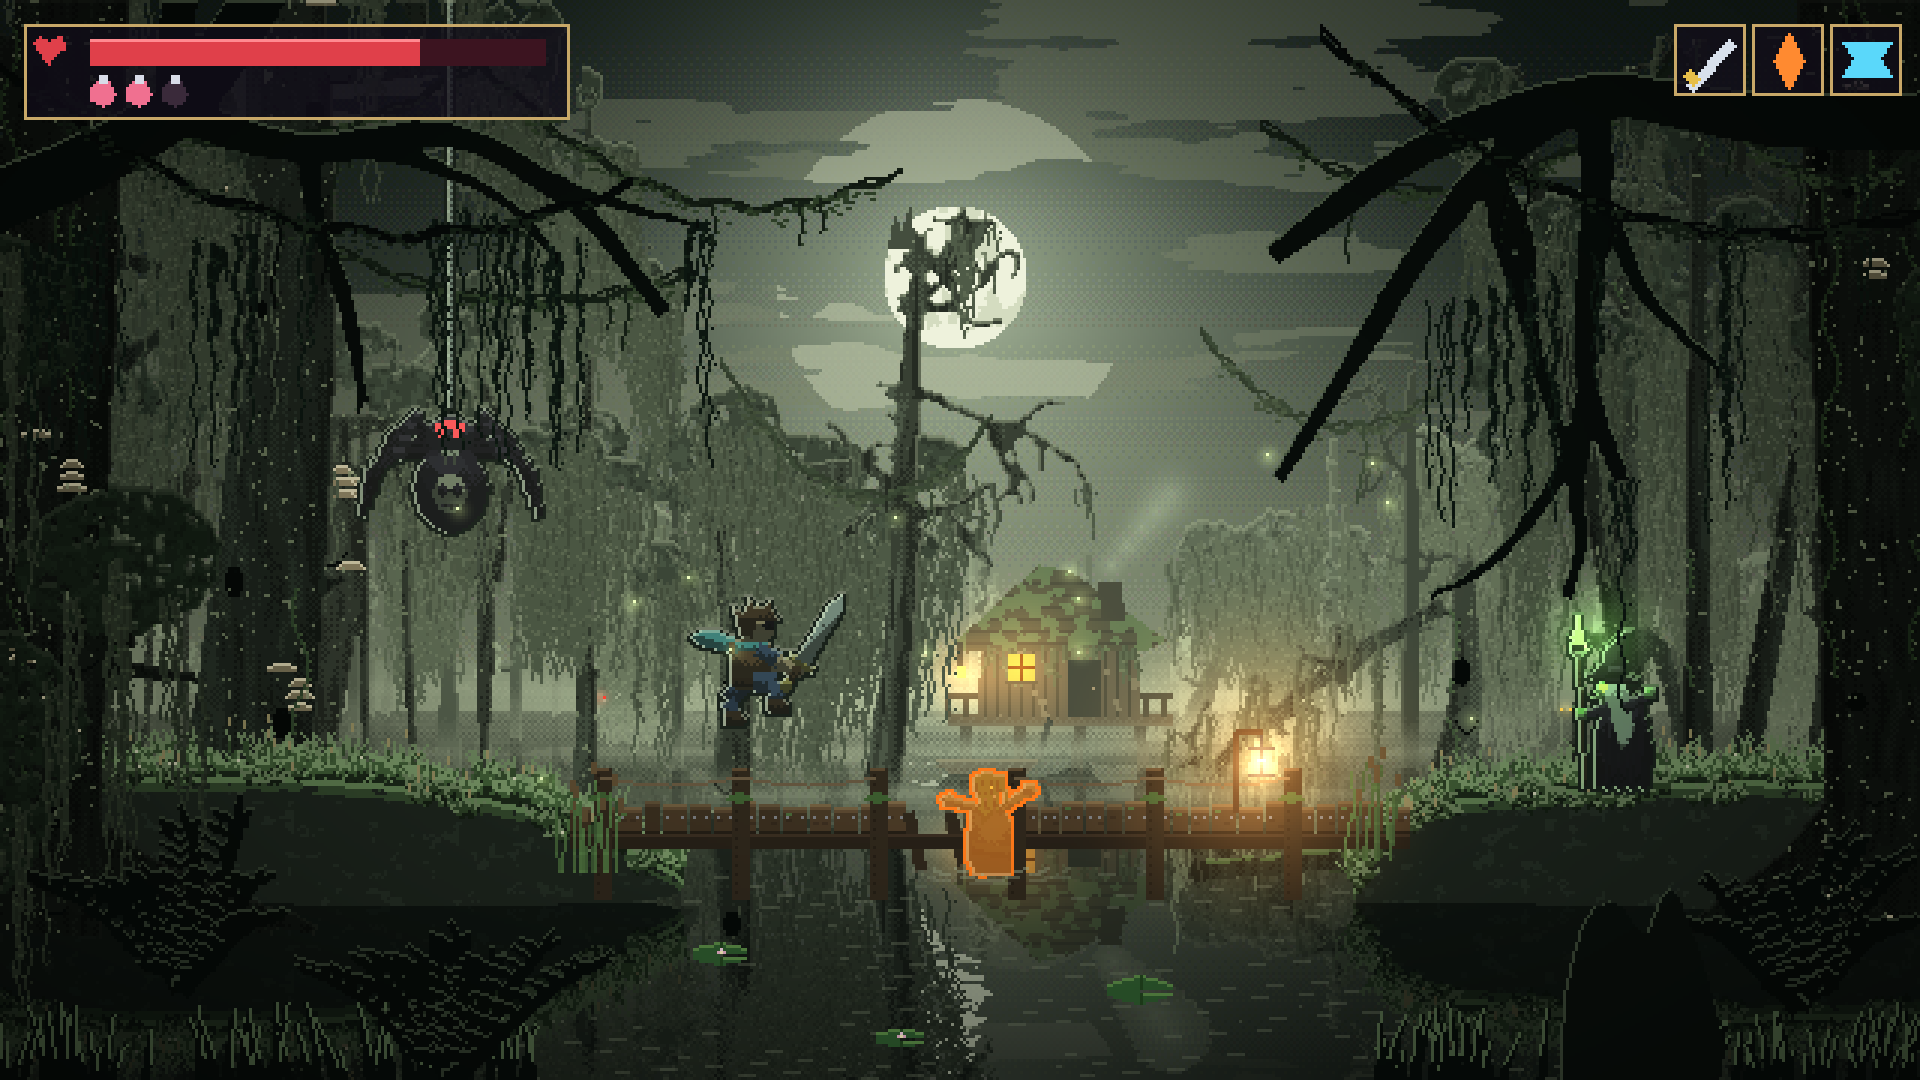
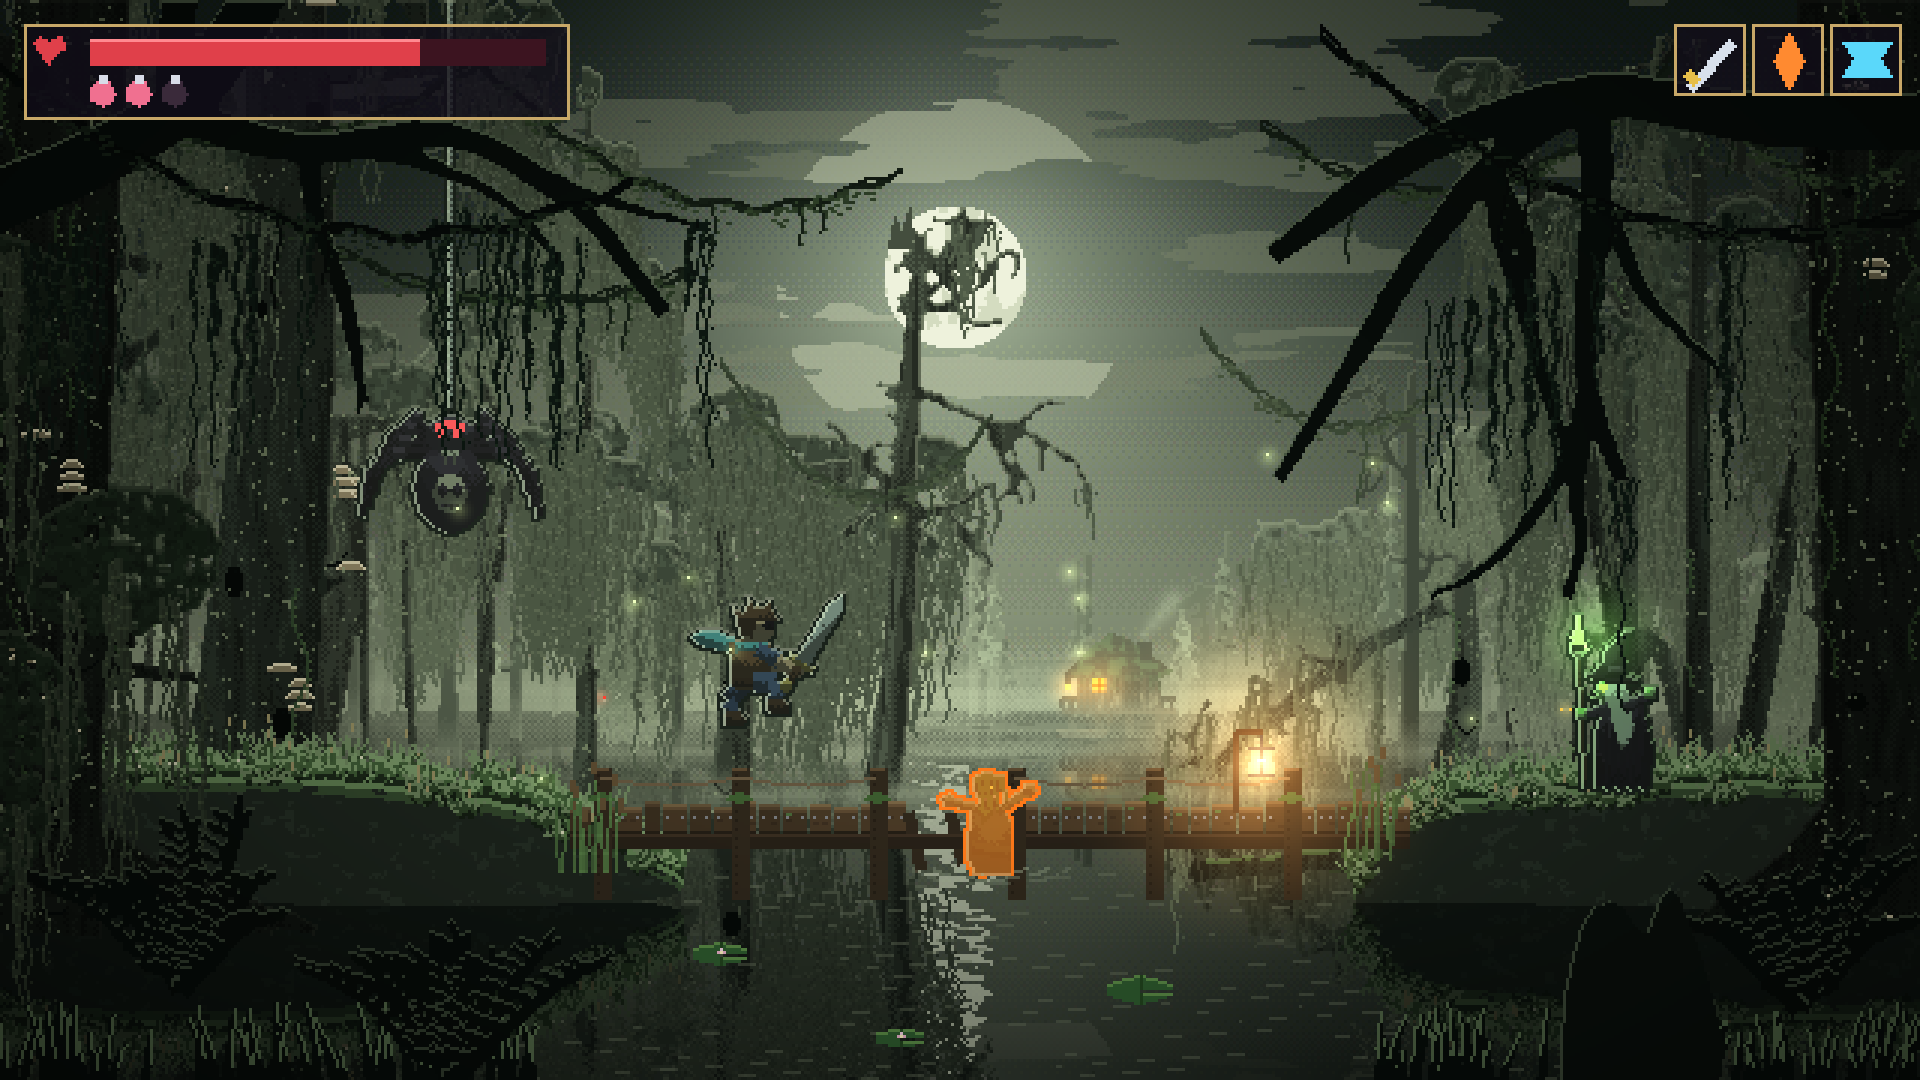
ART13b: swamp cabin moved far back across the water
Claude-Session: https://claude.ai/code/session_018E1RbT7Agev2Psz4WcAtF7

diff --git a/tools/art/final_swamp.py b/tools/art/final_swamp.py
@@ -595,7 +595,7 @@ def bank(img, pts, seed, d, grass_col=C('#3e5a34')):
 
 # ============================================================================================== the scene
 
-def cabin(img, x, base, fogt):
+def cabin(img, x, base, fogt, lights=True):
     """The witch's cabin on stilts: plank walls, a sagging mossy roof, a lit window, a porch with a lantern, a smoking
     chimney and a rowboat tied below."""
     f = lambda c: mix(c, depth_col(0.0), fogt)
@@ -619,24 +619,53 @@ def cabin(img, x, base, fogt):
     fill(img, roof & (fbm(XX / 4, YY / 4, 2, 8) > 0.55), moss_c)
     moss(img, [(xx, top + 8) for xx in range(x - 30, x + 32, 5)], f(C('#3a4a30')), f(C('#5a6a46')), 5, 1.2, 14)
     fill(img, mask([poly((x + 14, top - 14), (x + 21, top - 14), (x + 22, top - 2), (x + 15, top - 2))]), dark)        # chimney
-    for k in range(5):                                                   # smoke drifting
+    for k in range(5 if lights else 0):                                  # smoke drifting
         glow(img, x + 18 + k * 5, top - 20 - k * 6, 7 + k * 2, f(C('#8a9480')) * 0.5, 0.35)
     wx, wy_ = x - 16, top + 10                                           # the lit window
     img[wy_:wy_ + 9, wx:wx + 9] = C('#ffb84a')
     img[wy_ + 4, wx:wx + 9] = C('#6a3a12')
     img[wy_:wy_ + 9, wx + 4] = C('#6a3a12')
     img[wy_ + 9, wx - 1:wx + 10] = dark
-    glow(img, wx + 4, wy_ + 4, 40, C('#ff9a3a'), 0.4)
+    if lights:
+        glow(img, wx + 4, wy_ + 4, 40, C('#ff9a3a'), 0.4)
     fill(img, mask([poly((x + 4, top + 30), (x + 4, top + 12), (x + 14, top + 12), (x + 14, top + 30))]), dark)     # door
     img[top + 21, x + 12] = C('#a89a74')
     lx, ly = x - 32, top + 14                                            # porch lantern
     fill(img, mask([cap((lx, top + 6), (lx, ly), 0.6)]), dark)
     img[ly:ly + 4, lx - 1:lx + 2] = C('#ffcf6a')
-    glow(img, lx, ly + 2, 22, C('#ff9a3a'), 0.45)
+    if lights:
+        glow(img, lx, ly + 2, 22, C('#ff9a3a'), 0.45)
     boat = mask([poly((x - 40, base - 1), (x - 6, base - 1), (x - 10, base + 3), (x - 36, base + 3))])                 # rowboat
     fill(img, boat, f(C('#3a2a1c')))
     fill(img, boat & ~np.roll(boat, 1, 0), f(C('#6a5236')))
     fill(img, mask([cap((x - 6, base - 1), (x - 2, top + 32), 0.5)]), dark)                                           # rope
+
+
+
+def far_cabin(img, x, base, s, fogt):
+    """The cabin shrunk to distance s (1 = full size): drawn full size off-screen, scaled down, pasted, lights added."""
+    cx, cb = 320, 300
+    blk, wht = np.zeros((H, W, 3), np.float32), np.ones((H, W, 3), np.float32)
+    cabin(blk, cx, cb, fogt, lights=False)
+    cabin(wht, cx, cb, fogt, lights=False)
+    a = np.clip(1 - (wht - blk).mean(axis=2), 0, 1)
+    ys, xs = np.nonzero(a > 0.01)
+    y0, y1, x0, x1 = ys.min(), ys.max() + 1, xs.min(), xs.max() + 1
+    rgba = np.dstack([blk[y0:y1, x0:x1], a[y0:y1, x0:x1]])
+    sw, sh = max(1, round((x1 - x0) * s)), max(1, round((y1 - y0) * s))
+    chans = [np.asarray(Image.fromarray(rgba[..., k].astype(np.float32), 'F').resize((sw, sh), Image.BOX)) for k in range(4)]
+    col, al = np.dstack(chans[:3]), np.clip(chans[3], 0, 1)
+    al = np.where(al > 0.35, 1.0, 0.0)                                   # keep hard pixel edges
+    col = col / np.maximum(chans[3], 1e-3)[..., None]
+    px, py = int(round(x + (x0 - cx) * s)), int(round(base + (y0 - cb) * s))
+    reg = img[py:py + sh, px:px + sw]
+    reg[:] = reg * (1 - al[..., None]) + np.clip(col, 0, 1) * al[..., None]
+    top = cb - 46
+    wx, wy_ = x + (cx - 16 + 4 - cx) * s, base + (top + 14 - cb) * s
+    glow(img, wx, wy_, 40 * s, C('#ff9a3a'), 0.45)
+    glow(img, x + (-32) * s, base + (top + 16 - cb) * s, 22 * s, C('#ff9a3a'), 0.4)
+    for k in range(5):
+        glow(img, x + (18 + k * 5) * s, base + (top - 20 - k * 6 - cb) * s, (7 + k * 2) * s, mix(C('#8a9480'), depth_col(0), fogt) * 0.5, 0.35)
 
 
 def scene():
@@ -691,13 +720,15 @@ def scene():
     plane(HZ, p0, 0.5)
     mist(img, HZ - 6, 18, 0.8, 3)
     # plane 1: small trees standing in the water far away
-    plane(244, lambda: layer(img, [(x, 244, rng.uniform(50, 100), rng.uniform(3.5, 5.0)) for x in
-                                   (14, 70, 118, 172, 214, 400, 444, 492, 540, 590, 630)], 0.24, 12, [0.4, 0.3, 0.3], rim=0.4))
+    def p1():
+        layer(img, [(x, 244, rng.uniform(50, 100), rng.uniform(3.5, 5.0)) for x in
+                    (14, 70, 118, 172, 214, 424, 464, 504, 548, 590, 630)], 0.24, 12, [0.4, 0.3, 0.3], rim=0.4)
+        far_cabin(img, 372, 244, 0.5, 0.62)                       # the cabin, far across the water
+    plane(244, p1)
     mist(img, 240, 14, 0.7, 4)
     # plane 2: the cabin on stilts in a clearing, a few trees around it, eyes in the dark
     def p2():
         layer(img, [(150, 254, 120, 5.5), (226, 254, 140, 6), (470, 254, 130, 6), (560, 254, 110, 5.5)], 0.38, 13, [0.3, 0.2, 0.5], rim=0.45)
-        cabin(img, 352, 254, 0.42)
     plane(254, p2, 0.6)
     for (x, y, c) in ((198, 232, '#ff3a2a'), (520, 236, '#ffc84a')):
         img[y, x] = img[y, x + 3] = C(c)
